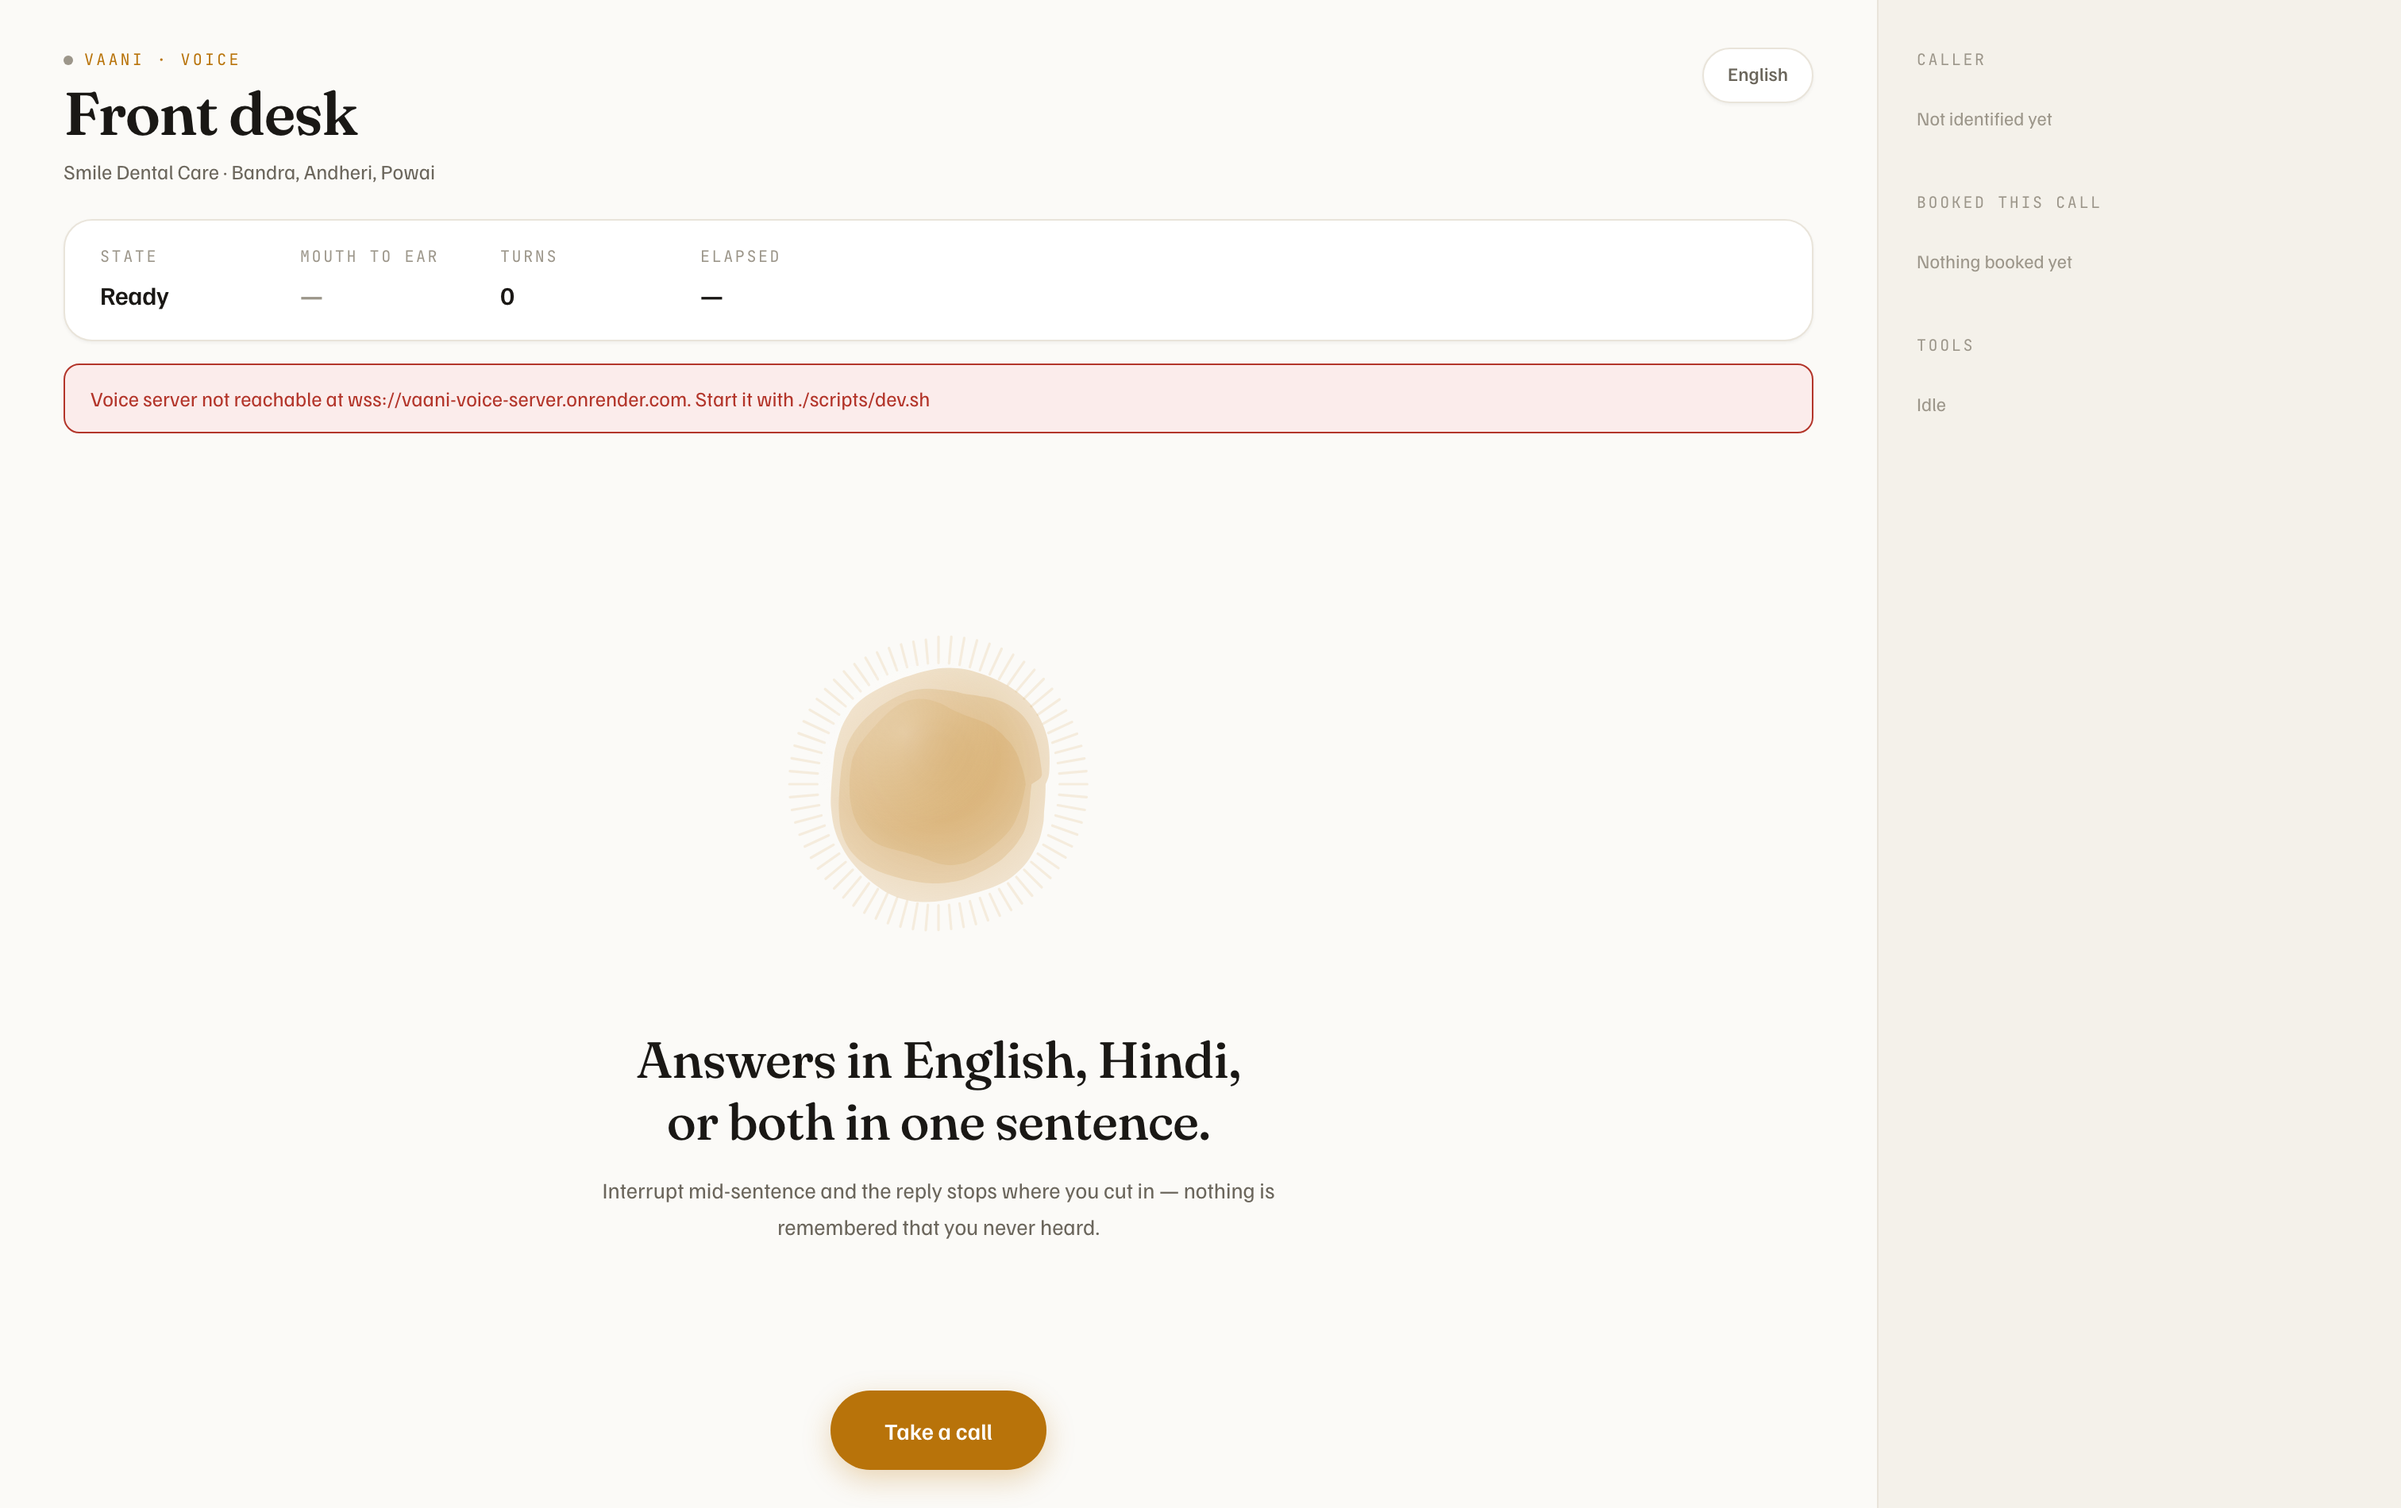
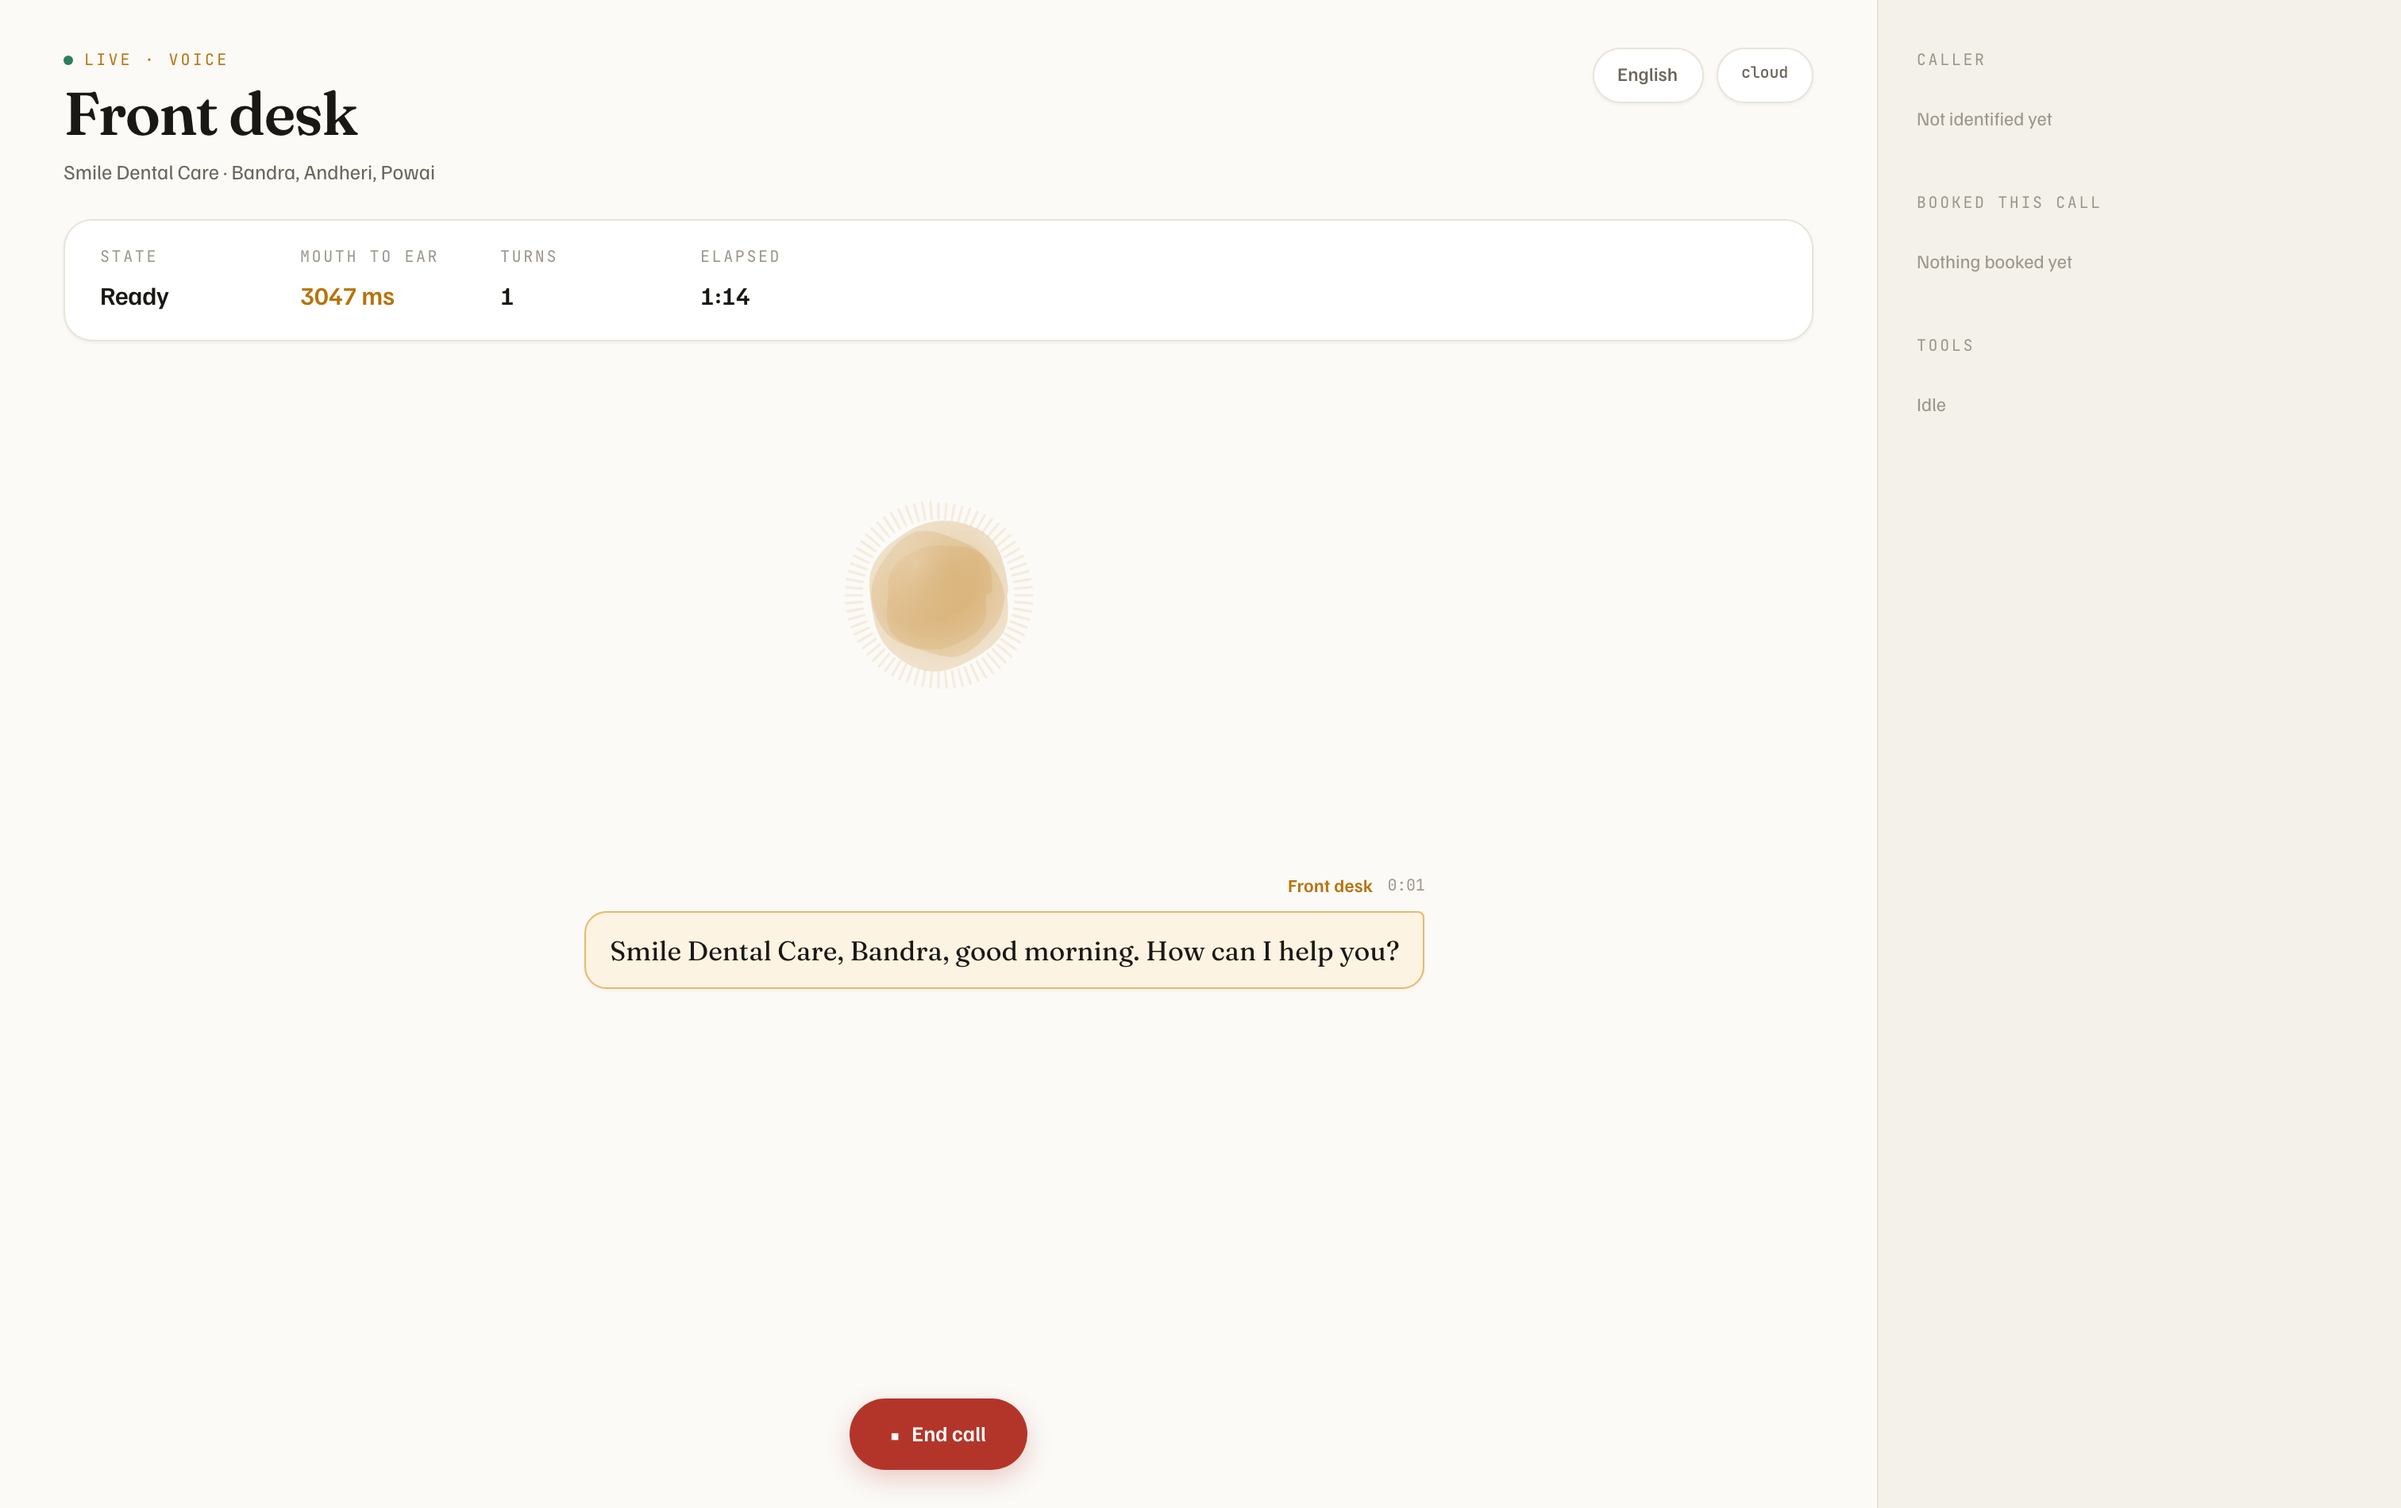
Make /health publicly readable, so the warmup probe can run
The console probes /health before opening a socket, so a sleeping server wakes
instead of failing the handshake. That probe was subject to the same origin
allow-list as the caller-data endpoints — and local development has no
configured origins, so the probe was blocked by CORS and the call never started
at all.

/health carries no caller data. It is a liveness check, so its CORS is open and
everything that does carry data keeps the allow-list.

Local audit is green again: caller heard, greeting names no person, no tool
markup, no stage directions, no repeated question, no console errors.

diff --git a/apps/voice-server/src/index.ts b/apps/voice-server/src/index.ts
@@ -133,6 +133,15 @@ const http = createServer(async (req, res) => {
   }
 
   if (url === '/health') {
+    /**
+     * Readable by anyone, deliberately.
+     *
+     * It carries no caller data, and the console probes it before opening a
+     * socket so a sleeping server wakes rather than failing the handshake.
+     * Restricting it to configured origins meant local development — which has
+     * no configured origins — could not start a call at all.
+     */
+    res.setHeader('access-control-allow-origin', '*')
     return json(res, { ok: true, practice: practice.name, engine: 'gemini-live', voice: LIVE_VOICE })
   }
   if (url === '/providers') {
